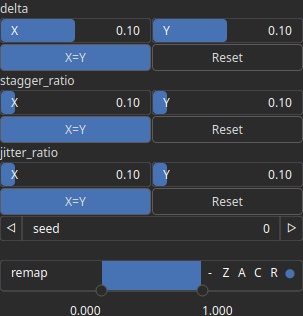
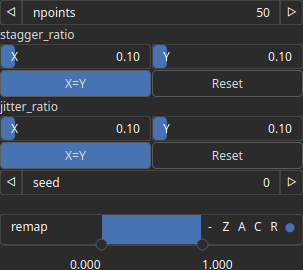
Add CloudRandomDensity node

diff --git a/Hesiod/src/model/nodes/nodes_function/cloud_random_density.cpp b/Hesiod/src/model/nodes/nodes_function/cloud_random_density.cpp
@@ -1,0 +1,60 @@
+/* Copyright (c) 2023 Otto Link. Distributed under the terms of the GNU General
+ * Public License. The full license is in the file LICENSE, distributed with
+ * this software. */
+
+#include "attributes.hpp"
+
+#include "hesiod/logger.hpp"
+#include "hesiod/model/nodes/base_node.hpp"
+#include "hesiod/model/nodes/post_process.hpp"
+
+using namespace attr;
+
+namespace hesiod
+{
+
+void setup_cloud_random_density_node(BaseNode *p_node)
+{
+  LOG->trace("setup node {}", p_node->get_label());
+
+  // port(s)
+  p_node->add_port<hmap::Heightmap>(gnode::PortType::IN, "density");
+  p_node->add_port<hmap::Cloud>(gnode::PortType::OUT, "cloud");
+
+  // attribute(s)
+  ADD_ATTR(IntAttribute, "npoints", 50, 1, INT_MAX);
+  ADD_ATTR(SeedAttribute, "seed");
+  ADD_ATTR(RangeAttribute, "remap");
+
+  // attribute(s) order
+  p_node->set_attr_ordered_key({"npoints", "seed", "_SEPARATOR_", "remap"});
+}
+
+void compute_cloud_random_density_node(BaseNode *p_node)
+{
+  Q_EMIT p_node->compute_started(p_node->get_id());
+
+  LOG->trace("computing node [{}]/[{}]", p_node->get_label(), p_node->get_id());
+
+  hmap::Heightmap *p_density = p_node->get_value_ref<hmap::Heightmap>("density");
+
+  if (p_density)
+  {
+    hmap::Cloud *p_out = p_node->get_value_ref<hmap::Cloud>("cloud");
+
+    // TODO distribute
+    hmap::Array density_array = p_density->to_array();
+
+    *p_out = hmap::random_cloud_density(GET("npoints", IntAttribute),
+                                        density_array,
+                                        GET("seed", SeedAttribute));
+
+    if (GET_MEMBER("remap", RangeAttribute, is_active))
+      p_out->remap_values(GET("remap", RangeAttribute)[0],
+                          GET("remap", RangeAttribute)[1]);
+  }
+
+  Q_EMIT p_node->compute_finished(p_node->get_id());
+}
+
+} // namespace hesiod

diff --git a/Hesiod/src/model/nodes/node_factory.cpp b/Hesiod/src/model/nodes/node_factory.cpp
@@ -153,6 +153,7 @@ std::map<std::string, std::string> get_node_inventory()
       {"CloudMerge", "Geometry/Cloud"},
       {"CloudLattice", "Geometry/Cloud"},
       {"CloudRandom", "Geometry/Cloud"},
+      {"CloudRandomDensity", "Geometry/Cloud"},
       {"CloudRemapValues", "Geometry/Cloud"},
       {"CloudSDF", "Geometry/Cloud"},
       {"CloudToArrayInterp", "Geometry/Cloud"},
@@ -401,6 +402,7 @@ std::shared_ptr<gnode::Node> node_factory(const std::string           &node_type
     SETUP_NODE(CloudMerge, cloud_merge);
     SETUP_NODE(CloudLattice, cloud_lattice);
     SETUP_NODE(CloudRandom, cloud_random);
+    SETUP_NODE(CloudRandomDensity, cloud_random_density);
     SETUP_NODE(CloudRemapValues, cloud_remap_values);
     SETUP_NODE(CloudSDF, cloud_sdf);
     SETUP_NODE(CloudToArrayInterp, cloud_to_array_interp);

diff --git a/Hesiod/include/hesiod/model/nodes/node_factory.hpp b/Hesiod/include/hesiod/model/nodes/node_factory.hpp
@@ -89,6 +89,7 @@ DECLARE_NODE(cloud)
 DECLARE_NODE(cloud_lattice)
 DECLARE_NODE(cloud_merge)
 DECLARE_NODE(cloud_random)
+DECLARE_NODE(cloud_random_density)
 DECLARE_NODE(cloud_remap_values)
 DECLARE_NODE(cloud_sdf)
 DECLARE_NODE(cloud_to_array_interp)

diff --git a/docs/node_reference/nodes/categories.md b/docs/node_reference/nodes/categories.md
@@ -17,7 +17,7 @@ Node Categories
 |Filter|Recast|ExpandShrink, Fold, NormalDisplacement, RecastCanyon, RecastCliff, RecastCliffDirectional, RecastCracks, RecastSag, SteepenConvective|
 |Filter|Recurve|Gain, GammaCorrection, GammaCorrectionLocal, Plateau, Recurve, RecurveKura, RecurveS, Saturate, Terrace|
 |Filter|Smoothing|Laplace, Median3x3, ShapeIndex, SharpenCone, SmoothCpulse, SmoothFill, SmoothFillHoles, SmoothFillSmearPeaks|
-|Geometry|Cloud|Cloud, CloudLattice, CloudMerge, CloudRandom, CloudRemapValues, CloudSDF, CloudToArrayInterp, CloudToPath|
+|Geometry|Cloud|Cloud, CloudLattice, CloudMerge, CloudRandom, CloudRandomDensity, CloudRemapValues, CloudSDF, CloudToArrayInterp, CloudToPath|
 |Geometry|Path|Path, PathBezier, PathBezierRound, PathBspline, PathDecasteljau, PathDig, PathFind, PathFractalize, PathMeanderize, PathResample, PathSDF, PathSmooth, PathToCloud, PathToHeightmap|
 |IO|Files|ExportAsset, ExportCloud, ExportHeightmap, ExportNormalMap, ExportPath, ExportTexture, ImportHeightmap, ImportTexture|
 |Mask|Selector|SelectAngle, SelectBlobLog, SelectCavities, SelectGt, SelectInterval, SelectInwardOutward, SelectMidrange, SelectMultiband3, SelectPulse, SelectRivers, SelectSlope, SelectTransitions, SelectValley|
@@ -29,7 +29,7 @@ Node Categories
 |Operator|Morphology|Border, Closing, Dilation, DistanceTransform, Erosion, MakeBinary, MorphologicalGradient, MorphologicalTopHat, Opening, RelativeDistanceFromSkeleton, Skeleton|
 |Operator|Resynthesis|QuiltingBlend, QuiltingExpand, QuiltingShuffle|
 |Operator|Tiling|MakePeriodic, MakePeriodicStitching|
-|Operator|Transform|Translate, Warp, Zoom|
+|Operator|Transform|Rotate, Translate, Warp, Zoom|
 |Primitive|Authoring|Brush, Ridgelines|
 |Primitive|Coherent|Dendry, GaborWaveFbm, Gavoronoise, Noise, NoiseFbm, NoiseIq, NoiseJordan, NoiseParberry, NoisePingpong, NoiseRidged, NoiseSwiss, Stamping, Vorolines, VorolinesFbm, Voronoi, VoronoiFbm, Voronoise, Vororand|
 |Primitive|Function|Bump, Constant, GaussianPulse, Paraboloid, Rift, Slope, Step, WaveDune, WaveSine, WaveSquare, WaveTriangular|

diff --git a/docs/node_reference/nodes/CloudRandomDensity.md b/docs/node_reference/nodes/CloudRandomDensity.md
@@ -1,0 +1,41 @@
+
+CloudRandomDensity Node
+=======================
+
+
+No description available
+
+
+
+![img](../../images/nodes/CloudRandomDensity_settings.png)
+
+
+# Category
+
+
+Geometry/Cloud
+# Inputs
+
+|Name|Type|Description|
+| :--- | :--- | :--- |
+|density|Heightmap|No description|
+
+# Outputs
+
+|Name|Type|Description|
+| :--- | :--- | :--- |
+|cloud|Cloud|No description|
+
+# Parameters
+
+|Name|Type|Description|
+| :--- | :--- | :--- |
+|npoints|Integer|No description|
+|remap|Value range|No description|
+|seed|Random seed number|No description|
+
+# Example
+
+
+![img](../../images/nodes/CloudRandomDensity.png)
+

diff --git a/docs/node_reference/nodes/Rotate.md b/docs/node_reference/nodes/Rotate.md
@@ -1,0 +1,40 @@
+
+Rotate Node
+===========
+
+
+No description available
+
+
+
+![img](../../images/nodes/Rotate_settings.png)
+
+
+# Category
+
+
+Operator/Transform
+# Inputs
+
+|Name|Type|Description|
+| :--- | :--- | :--- |
+|input|Heightmap|No description|
+
+# Outputs
+
+|Name|Type|Description|
+| :--- | :--- | :--- |
+|output|Heightmap|No description|
+
+# Parameters
+
+|Name|Type|Description|
+| :--- | :--- | :--- |
+|angle|Float|No description|
+|zoom_in|Bool|No description|
+
+# Example
+
+
+![img](../../images/nodes/Rotate.png)
+

diff --git a/docs/node_reference/nodes/CloudLattice.md b/docs/node_reference/nodes/CloudLattice.md
@@ -24,8 +24,8 @@ Geometry/Cloud
 
 |Name|Type|Description|
 | :--- | :--- | :--- |
-|delta|Wavenumber|Point spacing in x and y directions.|
 |jitter_ratio|Wavenumber|Point jittering (noise) in x and y directions.|
+|npoints|Integer|No description|
 |remap|Value range|Remap the operator's output to a specified range, defaulting to [0, 1].|
 |seed|Random seed number|Random seed number|
 |stagger_ratio|Wavenumber|Point offset in x and y directions for every two lines or columns.|

diff --git a/docs/node_reference/nodes/CloudRandom.md b/docs/node_reference/nodes/CloudRandom.md
@@ -24,6 +24,7 @@ Geometry/Cloud
 
 |Name|Type|Description|
 | :--- | :--- | :--- |
+|method|Enumeration|No description|
 |npoints|Integer|Number of points.|
 |remap|Value range|Remap the operator's output to a specified range, defaulting to [0, 1].|
 |seed|Random seed number|Random seed number.|
